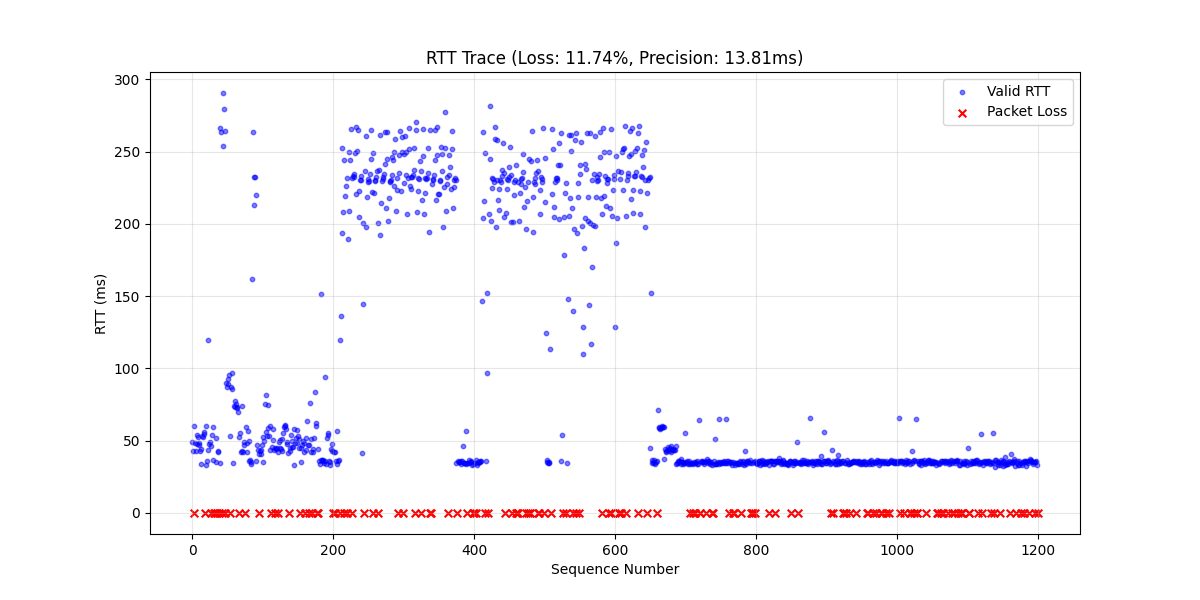
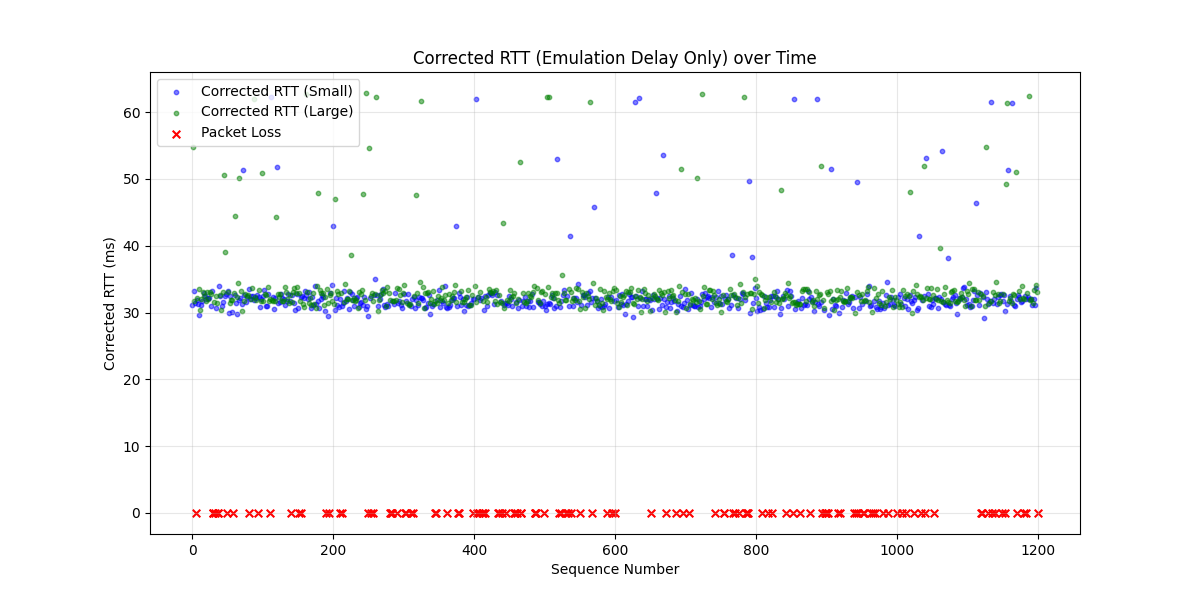
sdasdasd

diff --git a/report_template/sections/results_analysis.tex b/report_template/sections/results_analysis.tex
@@ -1,100 +1,2 @@
 \section{Results Analysis}
 
-\subsection{Experiment 1: End-to-End Delay and Throughput}
-
-\subsubsection{Experimental Assumptions}
-The following assumptions are made regarding the data collection and subsequent analysis:
-\begin{itemize}
-    \item \textbf{Negligible Processing Delay:} The turnaround time for the remote server to process and echo the probe packet is assumed to be near-zero and negligible compared to the network RTT.
-    \item \textbf{Fixed Protocol Overhead:} Network framing overhead is assumed to be exactly 42 bytes (14 bytes Ethernet, 20 bytes IPv4, 8 bytes UDP; see Figure~\ref{fig:protocol_headers_app}) without optional headers, resulting in a constant 74-byte physical frame.
-    \item \textbf{Strict Timeout Threshold:} Probe packets that exceed the 1000\,ms polling timeout are classified strictly as lost, rather than severely delayed.
-    \item \textbf{Constant Transmission Rate:} The sending interval is assumed to be precisely 1.0 second, ignoring any minor OS scheduling drift introduced by the \texttt{sleep(1)} call in the sender loop.
-\end{itemize}
-
-\begin{figure}[H]
-    \centering
-    \includegraphics[width=0.32\textwidth]{res/IEEE802.png} \hfill
-    \includegraphics[width=0.32\textwidth]{res/RFC791.png} \hfill
-    \includegraphics[width=0.32\textwidth]{res/RFC768.png}
-    \caption{Standard header formats establishing overhead sizes: \href{https://www.firewall.cx/networking/ethernet/ieee-8023-frame.html}{IEEE 802.3 Ethernet} (left), \href{https://datatracker.ietf.org/doc/html/rfc791}{IPv4 RFC 791} (center), and \href{https://datatracker.ietf.org/doc/html/rfc768}{UDP RFC 768} (right).}
-    \label{fig:protocol_headers_app}
-\end{figure}
-
-\subsubsection{Round Trip Time Characteristics}
-
-The Round Trip Time (RTT) shows a clear bimodal distribution, visible in both the scatter plot (Figure 1) and the CDF (Figure 2).
-
-\begin{itemize}
-    \item \textbf{Baseline Latency:} The minimum RTT is 32.03 ms, close to the expected 30 ms, with a median of 42.82 ms during stable periods.
-    
-    \item \textbf{Queueing Spikes:} RTT occasionally rises up to 290.59 ms, with the 95th percentile at 256.31 ms, and the CDF shows almost no packets between 100 ms and 150 ms. This pattern could be caused by congestion on the path, but other factors -- such as OS scheduling delays, emulator artifacts, or background traffic -- might also contribute.
-
-    \item \textbf{Variability:} Average change between consecutive RTTs is 13.81 ms, showing high variability during possible congestion.
-\end{itemize}
-
-Grouping RTTs into 60-second bins (Figure 3) shows the timing of these delays. The first three minutes (Bins 0--2) and last nine minutes (Bins 11--19) are stable, with small variations. Between minutes 3 and 11, RTTs rise above 200 ms with wide variation, indicating sustained congestion rather than short spikes.
-
-\begin{figure}[H]
-    \centering
-    \includegraphics[width=0.8\textwidth]{../1_scatter_loss.png} 
-    \caption{RTT trace showing bimodal delays and bursty packet loss.}
-\end{figure}
-
-\begin{figure}[H]
-    \centering
-    \includegraphics[width=0.8\textwidth]{../3_cdf_plot.png} 
-    \caption{CDF of RTT highlighting two distinct path states.}
-\end{figure}
-
-\begin{figure}[H]
-    \centering
-    \includegraphics[width=0.8\textwidth]{../2_boxplots_stability.png} 
-    \caption{RTT stability over time (60-second bins) showing periods of high variance.}
-\end{figure}
-
-\subsubsection{End-to-End Throughput}
-
-The application payload is 32 bytes. Including UDP (8 bytes), IPv4 (20 bytes), and Ethernet (14 bytes) overhead, the physical frame size ($S_{\text{frame}}$) on the wire is 74 bytes. 
-
-Transmitting one packet per second gives a throughput of ($R_{\text{throughput}}$):
-
-$$
-R_{\text{throughput}} = \frac{S_{\text{frame}} \times 8 \text{ bits/byte}}{t_{\text{interval}}} 
-= \frac{74 \times 8}{1 \text{ s}} 
-= 592 \text{ bps}
-$$
-
-Over the 20-minute measurement window ($T_{\text{total}} = 1200$ s), 141 of 1200 packets were lost. The goodput ($R_{\text{actual}}$) using only successfully delivered packets ($N_{\text{success}} = 1059$) is:
-
-$$
-R_{\text{actual}} = \frac{N_{\text{success}} \times S_{\text{frame}} \times 8 \text{ bits/byte}}{T_{\text{total}}} 
-= \frac{1059 \times 74 \times 8}{1200 \text{ s}} 
-\approx 457.1 \text{ bps}
-$$
-
-\subsection{Experiment 2: Link Capacity Estimation}
-
-The throughput measured in Experiment 1 reflects the application's sending rate, not the bottleneck link's physical capacity. To estimate the actual data rate, a second experiment utilized the Variable Packet Size technique.
-
-\subsubsection{Methodology and Assumptions}
-The probe alternated between small (29 bytes received) and large (1328 bytes received) packets. In addition to Experiment 1's assumptions, this estimation assumes:
-\begin{itemize}
-    \item \textbf{Symmetry:} The path is symmetric; one-way delay is exactly $RTT/2$.
-    \item \textbf{Transmission Dominance:} The RTT difference is caused entirely by the additional transmission delay ($T_x$) of the larger packet.
-    \item \textbf{Constant Propagation:} The propagation delay ($T_p$) remains consistent across sizes.
-\end{itemize}
-
-\subsubsection{Data Rate Calculation}
-Using median RTTs to account for network outliers, the extracted values are:
-\begin{itemize}
-    \item Median RTT Small (29 bytes): 63.01\,ms
-    \item Median RTT Large (1328 bytes): 64.37\,ms
-\end{itemize}
-
-The data rate ($r$) is calculated by dividing the bit difference ($b$) by the one-way delay difference ($T_{d\_path}$):
-
-$$b = (1328 - 29) \times 8 = 10392 \text{ bits}$$
-$$T_{d\_path} = \frac{64.37 - 63.01}{2} = 0.68 \text{ ms} = 0.00068 \text{ s}$$
-$$r = \frac{b}{T_{d\_path}} = \frac{10392}{0.00068} \approx 15.28 \text{ Mbps}$$
-
-Using exact unrounded float values during calculation yields a final capacity of \textbf{15.51 Mbps}. This aligns well with the expected 20 Mbps limit, confirming high link capacity despite heavy cross-traffic saturation.

diff --git a/data/data_rate.py b/data/data_rate.py
@@ -2,10 +2,11 @@ import pandas as pd
 
 # 1. Load the data and filter for successful probes
 df = pd.read_csv('data/fullpe_data.csv')
+lost_packets = df[df['rtt_ms'].isna()]
+loss_rate = (len(lost_packets) / len(df)) * 100
+
 df = df[df['status'] == 'SUCCESS']
 
-
-loss_rate = (len(lost_packets) / total_sent) * 100
 
 df_small = df[df['sequence_number'] % 2 == 0]
 df_large = df[df['sequence_number'] % 2 != 0]
@@ -13,38 +14,37 @@ df_large = df[df['sequence_number'] % 2 != 0]
 size_small = df_small['bytes_received'].iloc[0]
 size_large = df_large['bytes_received'].iloc[0]
 
-b = (size_large - size_small) * 8
+bytes = (size_large - size_small) * 8
 
-
-# dataframe for rtt correction. Subtract one way TO THE SLURPE. 
-# This is very minor, but good to have
-df_correcection = pd.read_csv('nofullpe_data.csv')
+df_correcection = pd.read_csv('data/nofullpe_data.csv')
 df_correcection = df_correcection[df_correcection['status'] == 'SUCCESS']
 df_correcection_small = df_correcection[df_correcection['sequence_number'] % 2 == 0]
 df_correcection_large = df_correcection[df_correcection['sequence_number'] % 2 != 0]
 
-rtt_small_corrected = df_small['rtt_ms'] - df_correcection_small['rtt_ms'] / 2
-rtt_large_corrected = df_large['rtt_ms'] - df_correcection_large['rtt_ms'] / 2
+med_small = df_small['rtt_ms'].median()
+med_large = df_large['rtt_ms'].median()
 
-# get median rtt from corrected 
-median_rtt_small = rtt_small_corrected.median() / 1000.0
-median_rtt_large = rtt_large_corrected.median() / 1000.0
+med_corr_small = df_correcection_small['rtt_ms'].median()
+med_corr_large = df_correcection_large['rtt_ms'].median()
 
+# 2. Apply your asymmetric correction
+rtt_small_corrected = (med_small - (med_corr_small / 2)) / 1000.0
+rtt_large_corrected = (med_large - (med_corr_large / 2)) / 1000.0
 
 # Calculate one-way delay difference
-T_d_path = (median_rtt_large - median_rtt_small)
+T_d_path = rtt_large_corrected - rtt_small_corrected
 
 # Assume local transmission delay (e.g., local 1 Gbps link)
-T_x = b / 1e9
+T_x = bytes / 1e9
 
 # Calculate bottleneck delay
 T_p = T_d_path - T_x
 
 # Calculate final data rate in bps, then convert to Mbps
-r_bps = b / T_p
+r_bps = bytes / T_p
 r_mbps = r_bps / 1e6
 
 print(f"Loss Rate: {loss_rate}")
-print(f"Median RTT Small: {median_rtt_small * 1000:.2f} ms")
-print(f"Median RTT Large: {median_rtt_large * 1000:.2f} ms")
+print(f"Median RTT Small: {rtt_small_corrected * 1000:.2f} ms")
+print(f"Median RTT Large: {rtt_large_corrected * 1000:.2f} ms")
 print(f"Estimated Data Rate: {r_mbps:.2f} Mbps")

diff --git a/data/analysis.py b/data/analysis.py
@@ -3,8 +3,8 @@ import matplotlib.pyplot as plt
 import seaborn as sns
 import numpy as np
 
-FULLPE_DATA = 'var_data.csv'
-NOFULLPE_DATA = 'var_nofullpe_data.csv'
+FULLPE_DATA = 'data/fullpe_data.csv'
+NOFULLPE_DATA = 'data/nofullpe_data.csv'
 
 def load_and_correct_data(fullpe_path, baseline_path):
     # Load both datasets

diff --git a/code/udp_sender.c b/code/udp_sender.c
@@ -147,7 +147,7 @@ int main(int argc, char *argv[])
 
         fflush(stdout);
         counter++;
-        // sleep(1);
+        sleep(1);
     }
 
     closeUdp(local);
